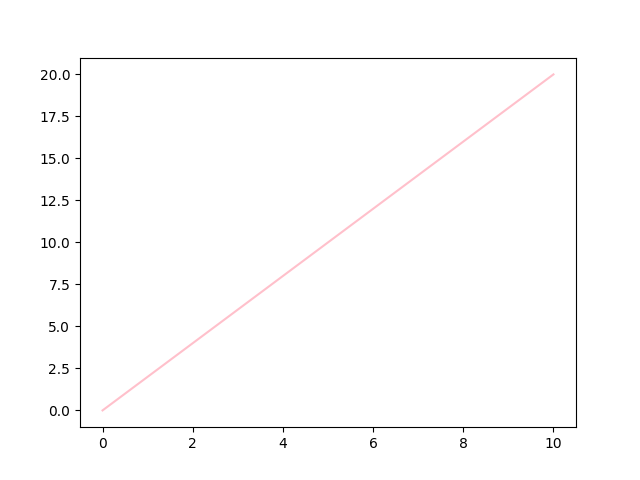
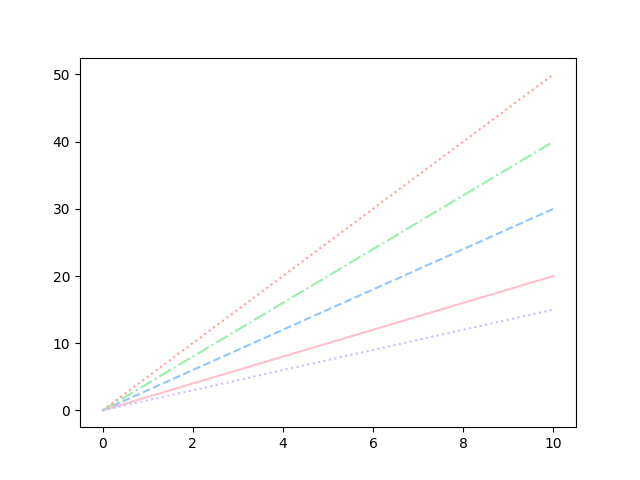
lineplot

diff --git a/lineplot.py b/lineplot.py
@@ -23,9 +23,35 @@ plt.savefig('lineplots.png')
 fig = plt.figure()
 ax = plt.axes() 
 
+# LINEPLOT TWO
+
 # Plot a function on the Axes object instance 
 ax.plot(x_vals, 2*(x_vals), color='pink')
+ax.plot(x_vals, 3*(x_vals),linestyle='dashed')
+ax.plot(x_vals, 4*(x_vals), linestyle='dashdot')
+ax.plot(x_vals, 5*(x_vals), linestyle='dotted') 
 
+# You can use shortcuts to define color & style
+ax.plot(x_vals, 1.5*(x_vals), ':')
+
+# Save figure as PNG in current directory
 fig.savefig('lineplot2.png')
+plt.close()
 
+# LINEPLOT THREE
 
+# Demo in customization 
+plt.plot(x_vals, np.sin(x_vals), '-.m', label='sin(x)')
+plt.xlim(-1,11)
+plt.ylim(-1.5, 1.5) 
+# Set axis to tight to fit your plot better
+plt.axis('tight')
+# other options: 'equal', 'image', etc.
+# Add TITLES/LABELS
+plt.title('A Sine Wave') 
+plt.xlabel('x')
+plt.ylabel('sin(x)')
+
+# Add LEGEND
+plt.legend()
+plt.savefig('lineplot3.png')
